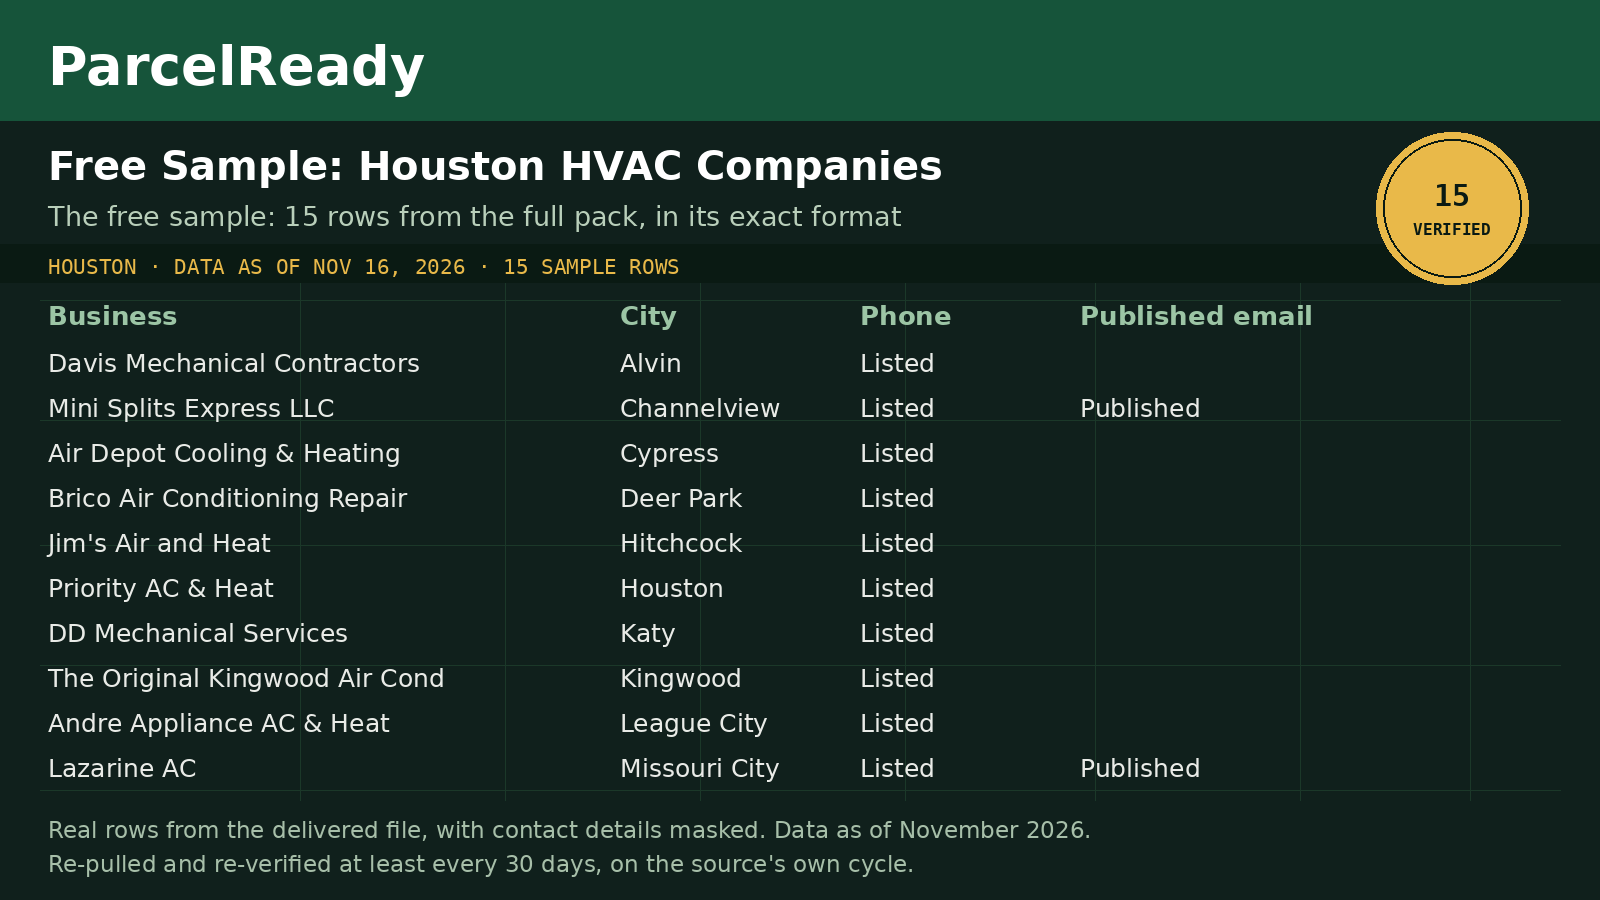
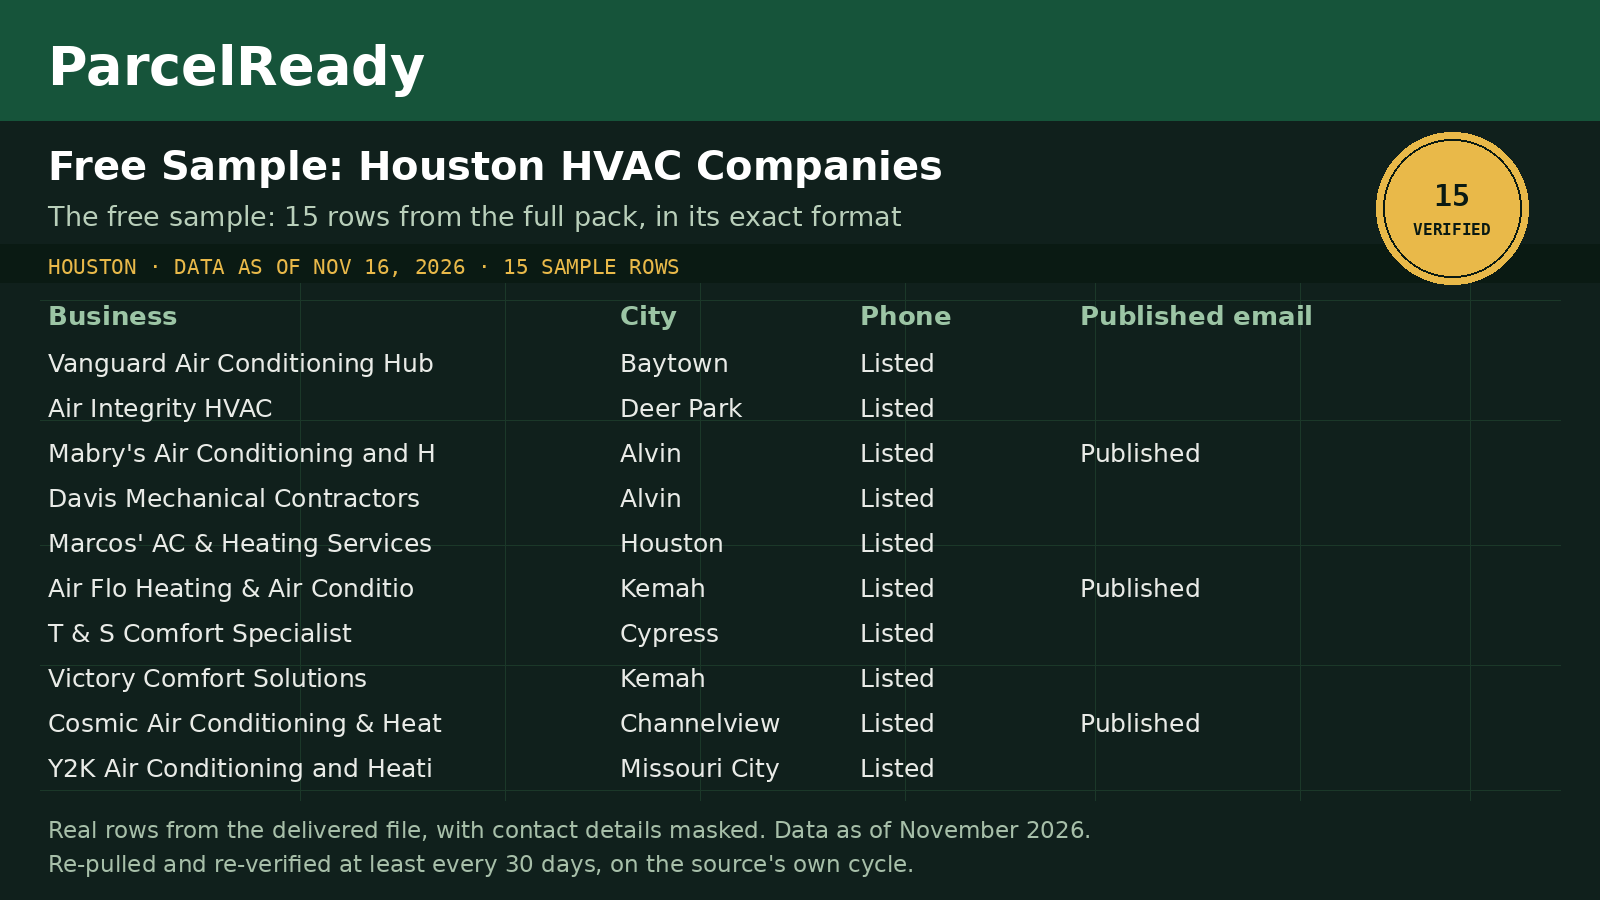
A2 trade preview fix: representative stratified draw (email, rating, website) replaces the systematic draw for trade packs in both the preview and the delivered sample; Label plates carry true coverage computed from the delivered files; preview copy states the representative draw

diff --git a/packs/houston-hvac.html b/packs/houston-hvac.html
@@ -50,7 +50,7 @@
       
       <div class="mini-preview">
         <p class="mini-head"><span>Live preview · first 5 rows</span><span>15 preview rows in all</span></p>
-        <table><thead><tr><th>Business name</th><th>City</th><th>Phone</th><th>Published email</th></tr></thead><tbody><tr><td>Davis Mechanical Contractors</td><td>Alvin</td><td>Listed</td><td></td></tr><tr><td>Mini Splits Express LLC</td><td>Channelview</td><td>Listed</td><td>Published</td></tr><tr><td>Air Depot Cooling &amp; Heating</td><td>Cypress</td><td>Listed</td><td></td></tr><tr><td>Brico Air Conditioning Repair Services</td><td>Deer Park</td><td>Listed</td><td></td></tr><tr><td>Jim&#x27;s Air and Heat</td><td>Hitchcock</td><td>Listed</td><td></td></tr></tbody></table>
+        <table><thead><tr><th>Business name</th><th>City</th><th>Phone</th><th>Published email</th></tr></thead><tbody><tr><td>Vanguard Air Conditioning Hub</td><td>Baytown</td><td>Listed</td><td></td></tr><tr><td>Air Integrity HVAC</td><td>Deer Park</td><td>Listed</td><td></td></tr><tr><td>Mabry&#x27;s Air Conditioning and Heating</td><td>Alvin</td><td>Listed</td><td>Published</td></tr><tr><td>Davis Mechanical Contractors</td><td>Alvin</td><td>Listed</td><td></td></tr><tr><td>Marcos&#x27; AC &amp; Heating Services</td><td>Houston</td><td>Listed</td><td></td></tr></tbody></table>
         <p class="mini-foot">Real rows from this pack, contact details masked on screen. <a href="#sample">See the full preview below</a>; the delivered sample carries every field.</p>
       </div>
     </div>
@@ -60,7 +60,7 @@
 
 <section class="label-band"><div class="wrap">
   <div class="label-plate">
-    <div class="label-fields"><div class="label-field"><span class="label-k">Pack</span><span class="label-v">Houston HVAC Companies</span></div><div class="label-field"><span class="label-k">Source</span><span class="label-v">Each business&#x27;s own website and listings, checked by hand</span></div><div class="label-field"><span class="label-k">Pull date</span><span class="label-v">November 16, 2026</span></div><div class="label-field"><span class="label-k">Rows</span><span class="label-v">137 verified companies</span></div><div class="label-field"><span class="label-k">Refresh</span><span class="label-v">Fully re-verified monthly</span></div><div class="label-field"><span class="label-k">Price</span><span class="label-v">$79 one time</span></div><div class="label-field"><span class="label-k">Cleared for</span><span class="label-v">Contact details as published by each business.</span></div></div>
+    <div class="label-fields"><div class="label-field"><span class="label-k">Pack</span><span class="label-v">Houston HVAC Companies</span></div><div class="label-field"><span class="label-k">Source</span><span class="label-v">Each business&#x27;s own website and listings, checked by hand</span></div><div class="label-field"><span class="label-k">Pull date</span><span class="label-v">November 16, 2026</span></div><div class="label-field"><span class="label-k">Rows</span><span class="label-v">137 verified companies</span></div><div class="label-field"><span class="label-k">Coverage</span><span class="label-v">Phone on 100% · Published email on 31% · Website on 98%</span></div><div class="label-field"><span class="label-k">Refresh</span><span class="label-v">Fully re-verified monthly</span></div><div class="label-field"><span class="label-k">Price</span><span class="label-v">$79 one time</span></div><div class="label-field"><span class="label-k">Cleared for</span><span class="label-v">Contact details as published by each business.</span></div></div>
     <div class="label-seal"><span class="seal-count">137</span><span class="seal-word">Verified</span></div>
     <p class="label-promise">The <a href="../terms.html#label-promise">label promise</a>: if this pack does not match what this page promises, tell us within 30 days and we will fix it or refund the pack.</p>
   </div>
@@ -119,7 +119,7 @@
       <div class="wrap">
         <p class="kicker">Free sample, viewable right here</p>
         <h2>Inspect the data before you spend a dollar</h2>
-        <p class="explorer-sub">What you see here is the proof surface: real rows drawn evenly from the full file, real counts, and the same fields the pack carries, with contact details masked on screen. The free sample file itself, 10 percent of the full file (15 rows at minimum, 50 at most, the same rule on every pack in the catalog), carries every field exactly as it ships, and it is delivered by email below. Inspect the structure and the counts here; the usable file comes by email.</p>
+        <p class="explorer-sub">What you see here is the proof surface: real rows drawn to represent the full file, so the coverage you see matches the coverage the file carries (the true rates are printed on the label), real counts, and the same fields the pack carries, with contact details masked on screen. The free sample file itself, 10 percent of the full file (15 rows at minimum, 50 at most, the same rule on every pack in the catalog), carries every field exactly as it ships, and it is delivered by email below. Inspect the structure and the counts here; the usable file comes by email.</p>
         <div class="explorer-frame">
           <p class="explorer-frame-head"><span>LIVE PREVIEW · HOUSTON HVAC COMPANIES</span><span>PULLED NOVEMBER 16, 2026 · CONTACT DETAILS MASKED</span></p>
           <div class="explorer" data-explorer="../assets/data/houston-hvac-sample.json"></div>

diff --git a/packs/austin-sa-roofing.html b/packs/austin-sa-roofing.html
@@ -50,7 +50,7 @@
       
       <div class="mini-preview">
         <p class="mini-head"><span>Live preview · first 5 rows</span><span>15 preview rows in all</span></p>
-        <table><thead><tr><th>Business name</th><th>City</th><th>Phone</th><th>Published email</th></tr></thead><tbody><tr><td>Ace Roofing Company</td><td>Austin</td><td>Listed</td><td>Published</td></tr><tr><td>Tex Roof - Austin Roofing &amp; Construction</td><td>Austin</td><td>Listed</td><td>Published</td></tr><tr><td>KangaRoof</td><td>Round Rock</td><td>Listed</td><td>Published</td></tr><tr><td>Ark Roofer</td><td>Georgetown</td><td>Listed</td><td></td></tr><tr><td>Malachi Roofing</td><td>Cedar Park</td><td>Listed</td><td>Published</td></tr></tbody></table>
+        <table><thead><tr><th>Business name</th><th>City</th><th>Phone</th><th>Published email</th></tr></thead><tbody><tr><td>Texas Choice Roofing</td><td>Austin</td><td>Listed</td><td></td></tr><tr><td>Altitude Roofing</td><td>Austin</td><td>Listed</td><td>Published</td></tr><tr><td>SkyDeck Roofing and Construction</td><td>Austin</td><td>Listed</td><td></td></tr><tr><td>Ace Roofing Company</td><td>Austin</td><td>Listed</td><td>Published</td></tr><tr><td>RoofsOnly.com</td><td>Austin</td><td>Listed</td><td></td></tr></tbody></table>
         <p class="mini-foot">Real rows from this pack, contact details masked on screen. <a href="#sample">See the full preview below</a>; the delivered sample carries every field.</p>
       </div>
     </div>
@@ -60,7 +60,7 @@
 
 <section class="label-band"><div class="wrap">
   <div class="label-plate">
-    <div class="label-fields"><div class="label-field"><span class="label-k">Pack</span><span class="label-v">Austin to San Antonio Roofing Companies</span></div><div class="label-field"><span class="label-k">Source</span><span class="label-v">Each business&#x27;s own website and listings, checked by hand</span></div><div class="label-field"><span class="label-k">Pull date</span><span class="label-v">November 16, 2026</span></div><div class="label-field"><span class="label-k">Rows</span><span class="label-v">130 verified companies</span></div><div class="label-field"><span class="label-k">Refresh</span><span class="label-v">Fully re-verified monthly</span></div><div class="label-field"><span class="label-k">Price</span><span class="label-v">$79 one time</span></div><div class="label-field"><span class="label-k">Cleared for</span><span class="label-v">Contact details as published by each business.</span></div></div>
+    <div class="label-fields"><div class="label-field"><span class="label-k">Pack</span><span class="label-v">Austin to San Antonio Roofing Companies</span></div><div class="label-field"><span class="label-k">Source</span><span class="label-v">Each business&#x27;s own website and listings, checked by hand</span></div><div class="label-field"><span class="label-k">Pull date</span><span class="label-v">November 16, 2026</span></div><div class="label-field"><span class="label-k">Rows</span><span class="label-v">130 verified companies</span></div><div class="label-field"><span class="label-k">Coverage</span><span class="label-v">Phone on 100% · Published email on 52% · Website on 100%</span></div><div class="label-field"><span class="label-k">Refresh</span><span class="label-v">Fully re-verified monthly</span></div><div class="label-field"><span class="label-k">Price</span><span class="label-v">$79 one time</span></div><div class="label-field"><span class="label-k">Cleared for</span><span class="label-v">Contact details as published by each business.</span></div></div>
     <div class="label-seal"><span class="seal-count">130</span><span class="seal-word">Verified</span></div>
     <p class="label-promise">The <a href="../terms.html#label-promise">label promise</a>: if this pack does not match what this page promises, tell us within 30 days and we will fix it or refund the pack.</p>
   </div>
@@ -119,7 +119,7 @@
       <div class="wrap">
         <p class="kicker">Free sample, viewable right here</p>
         <h2>Inspect the data before you spend a dollar</h2>
-        <p class="explorer-sub">What you see here is the proof surface: real rows drawn evenly from the full file, real counts, and the same fields the pack carries, with contact details masked on screen. The free sample file itself, 10 percent of the full file (15 rows at minimum, 50 at most, the same rule on every pack in the catalog), carries every field exactly as it ships, and it is delivered by email below. Inspect the structure and the counts here; the usable file comes by email.</p>
+        <p class="explorer-sub">What you see here is the proof surface: real rows drawn to represent the full file, so the coverage you see matches the coverage the file carries (the true rates are printed on the label), real counts, and the same fields the pack carries, with contact details masked on screen. The free sample file itself, 10 percent of the full file (15 rows at minimum, 50 at most, the same rule on every pack in the catalog), carries every field exactly as it ships, and it is delivered by email below. Inspect the structure and the counts here; the usable file comes by email.</p>
         <div class="explorer-frame">
           <p class="explorer-frame-head"><span>LIVE PREVIEW · AUSTIN TO SAN ANTONIO ROOFING COMPANIES</span><span>PULLED NOVEMBER 16, 2026 · CONTACT DETAILS MASKED</span></p>
           <div class="explorer" data-explorer="../assets/data/austin-sa-roofing-sample.json"></div>

diff --git a/packs/houston-plumbing.html b/packs/houston-plumbing.html
@@ -50,7 +50,7 @@
       
       <div class="mini-preview">
         <p class="mini-head"><span>Live preview · first 5 rows</span><span>15 preview rows in all</span></p>
-        <table><thead><tr><th>Business name</th><th>City</th><th>Phone</th><th>Published email</th></tr></thead><tbody><tr><td>Jerry Collier Plumbing</td><td>Alvin</td><td>Listed</td><td></td></tr><tr><td>Reisch Plumbing</td><td>Conroe</td><td>Listed</td><td>Published</td></tr><tr><td>Aberle Plumbing</td><td>Houston</td><td>Listed</td><td></td></tr><tr><td>Repipe Solutions Inc</td><td>Houston</td><td>Listed</td><td>Published</td></tr><tr><td>Gal Plumbing Industries LLC</td><td>Katy</td><td>Listed</td><td>Published</td></tr></tbody></table>
+        <table><thead><tr><th>Business name</th><th>City</th><th>Phone</th><th>Published email</th></tr></thead><tbody><tr><td>Jerry Collier Plumbing</td><td>Alvin</td><td>Listed</td><td></td></tr><tr><td>Blackmon Plumbing</td><td>Baytown</td><td>Listed</td><td></td></tr><tr><td>Choice Plumbers, LLC</td><td>Baytown</td><td>Listed</td><td>Published</td></tr><tr><td>JR Plumbing</td><td>Richmond</td><td>Listed</td><td></td></tr><tr><td>Village Plumbing, Air &amp; Electric</td><td>Houston</td><td>Listed</td><td></td></tr></tbody></table>
         <p class="mini-foot">Real rows from this pack, contact details masked on screen. <a href="#sample">See the full preview below</a>; the delivered sample carries every field.</p>
       </div>
     </div>
@@ -60,7 +60,7 @@
 
 <section class="label-band"><div class="wrap">
   <div class="label-plate">
-    <div class="label-fields"><div class="label-field"><span class="label-k">Pack</span><span class="label-v">Houston Plumbing Companies</span></div><div class="label-field"><span class="label-k">Source</span><span class="label-v">Each business&#x27;s own website and listings, checked by hand</span></div><div class="label-field"><span class="label-k">Pull date</span><span class="label-v">November 22, 2026</span></div><div class="label-field"><span class="label-k">Rows</span><span class="label-v">135 verified companies</span></div><div class="label-field"><span class="label-k">Refresh</span><span class="label-v">Fully re-verified monthly</span></div><div class="label-field"><span class="label-k">Price</span><span class="label-v">$79 one time</span></div><div class="label-field"><span class="label-k">Cleared for</span><span class="label-v">Contact details as published by each business.</span></div></div>
+    <div class="label-fields"><div class="label-field"><span class="label-k">Pack</span><span class="label-v">Houston Plumbing Companies</span></div><div class="label-field"><span class="label-k">Source</span><span class="label-v">Each business&#x27;s own website and listings, checked by hand</span></div><div class="label-field"><span class="label-k">Pull date</span><span class="label-v">November 22, 2026</span></div><div class="label-field"><span class="label-k">Rows</span><span class="label-v">135 verified companies</span></div><div class="label-field"><span class="label-k">Coverage</span><span class="label-v">Phone on 100% · Published email on 31% · Website on 100%</span></div><div class="label-field"><span class="label-k">Refresh</span><span class="label-v">Fully re-verified monthly</span></div><div class="label-field"><span class="label-k">Price</span><span class="label-v">$79 one time</span></div><div class="label-field"><span class="label-k">Cleared for</span><span class="label-v">Contact details as published by each business.</span></div></div>
     <div class="label-seal"><span class="seal-count">135</span><span class="seal-word">Verified</span></div>
     <p class="label-promise">The <a href="../terms.html#label-promise">label promise</a>: if this pack does not match what this page promises, tell us within 30 days and we will fix it or refund the pack.</p>
   </div>
@@ -119,7 +119,7 @@
       <div class="wrap">
         <p class="kicker">Free sample, viewable right here</p>
         <h2>Inspect the data before you spend a dollar</h2>
-        <p class="explorer-sub">What you see here is the proof surface: real rows drawn evenly from the full file, real counts, and the same fields the pack carries, with contact details masked on screen. The free sample file itself, 10 percent of the full file (15 rows at minimum, 50 at most, the same rule on every pack in the catalog), carries every field exactly as it ships, and it is delivered by email below. Inspect the structure and the counts here; the usable file comes by email.</p>
+        <p class="explorer-sub">What you see here is the proof surface: real rows drawn to represent the full file, so the coverage you see matches the coverage the file carries (the true rates are printed on the label), real counts, and the same fields the pack carries, with contact details masked on screen. The free sample file itself, 10 percent of the full file (15 rows at minimum, 50 at most, the same rule on every pack in the catalog), carries every field exactly as it ships, and it is delivered by email below. Inspect the structure and the counts here; the usable file comes by email.</p>
         <div class="explorer-frame">
           <p class="explorer-frame-head"><span>LIVE PREVIEW · HOUSTON PLUMBING COMPANIES</span><span>PULLED NOVEMBER 22, 2026 · CONTACT DETAILS MASKED</span></p>
           <div class="explorer" data-explorer="../assets/data/houston-plumbing-sample.json"></div>

diff --git a/build.py b/build.py
@@ -165,10 +165,66 @@ def full_file_path(p):
     return os.path.join(DP, first)
 
 
+def _spread(rs, n):
+    if n <= 0 or not rs:
+        return []
+    step = max(1, len(rs) // n)
+    return rs[::step][:n]
+
+
+def _interleave(a, b):
+    out, ia, ib = [], 0, 0
+    total = len(a) + len(b)
+    for i in range(total):
+        if ia < len(a) and (i + 1) * len(a) // total > i * len(a) // total:
+            out.append(a[ia]); ia += 1
+        elif ib < len(b):
+            out.append(b[ib]); ib += 1
+        elif ia < len(a):
+            out.append(a[ia]); ia += 1
+    return out
+
+
+def _stratified_pick(rows, n, fields):
+    """Pick n rows from rows so the share carrying fields[0] matches
+    the share in rows as closely as n allows, spread evenly within
+    each stratum and interleaved. Each stratum's pick recurses on
+    the remaining fields, so correlated fields track too: in the
+    trade files a single-field draw on email dragged rating over 20
+    points high, and a two-field draw caught two of the file's only
+    three website-less rows."""
+    if n <= 0 or not rows:
+        return []
+    if not fields:
+        return _spread(rows, n)
+    field = fields[0]
+    have = [r for r in rows if (r.get(field) or "").strip()]
+    have_not = [r for r in rows if not (r.get(field) or "").strip()]
+    k = round(len(have) / len(rows) * n)
+    k = max(0, min(n, k, len(have)))
+    rest = n - k
+    if rest > len(have_not):
+        k += rest - len(have_not)
+        rest = len(have_not)
+    a = _stratified_pick(have, k, fields[1:])
+    b = _stratified_pick(have_not, rest, fields[1:])
+    return _interleave(a, b)
+
+
+def representative_draw(rows, target):
+    """A2 (HQ ruling, Nov 24, 2026, on Relay's fill-rate facts): a
+    trade sample whose lead-field fill rates match the full file's
+    true rates as closely as the sample size allows. Deterministic,
+    so builds are reproducible and Relay's representativeness check
+    can re-derive the same draw."""
+    return _stratified_pick(rows, target, ["Published email", "Rating", "Website"])
+
+
 def write_sample_json():
     """The free sample is a fixed percentage of the full file (Matt's ruling,
-    Nov 22, 2026), drawn systematically (every Nth row) from the full file.
-    Emits the explorer JSON (first 500 sample rows) and the delivery CSV
+    Nov 22, 2026). County samples draw systematically (every Nth row);
+    trade samples draw representatively under A2 (see above). Emits
+    the explorer JSON (first 500 sample rows) and the delivery CSV
     (the full sample) staged for R2 under delivery/samples/."""
     pct = CATALOG.get("sample_percent", 10)
     step = max(1, round(100 / pct))
@@ -184,8 +240,17 @@ def write_sample_json():
             headers = reader.fieldnames
             all_rows = list(reader)
         target = max(15, min(50, round(len(all_rows) * pct / 100)))
-        dstep = max(1, len(all_rows) // target)
-        delivered = all_rows[::dstep][:target]
+        if p["family"] == "trade":
+            delivered = representative_draw(all_rows, target)
+            def _rate(rs, f):
+                return 100.0 * sum(1 for r in rs if (r.get(f) or "").strip()) / len(rs) if rs else 0.0
+            print(f"A2 DRAW {p['id']}: email file {_rate(all_rows, 'Published email'):.1f}% "
+                  f"sample {_rate(delivered, 'Published email'):.1f}% | "
+                  f"rating file {_rate(all_rows, 'Rating'):.1f}% sample {_rate(delivered, 'Rating'):.1f}% | "
+                  f"website file {_rate(all_rows, 'Website'):.1f}% sample {_rate(delivered, 'Website'):.1f}%")
+        else:
+            dstep = max(1, len(all_rows) // target)
+            delivered = all_rows[::dstep][:target]
         kind = "trade" if p["family"] == "trade" else "county"
         cols = [c for c in TRADE_COLS if c in headers] if kind == "trade" else headers
         if len(cols) < 4:
@@ -298,6 +363,27 @@ def label_source(p):
     return "Each business's own website and listings, checked by hand"
 
 
+_COVERAGE = {}
+
+
+def trade_coverage(p):
+    """(phone, published email, website) fill rates in whole percent,
+    computed from the pack's delivered full file. Cached per build."""
+    if p["id"] in _COVERAGE:
+        return _COVERAGE[p["id"]]
+    rates = None
+    path = full_file_path(p)
+    if path and os.path.exists(path):
+        with open(path, newline="", encoding="utf-8-sig") as f:
+            rows = list(csv.DictReader(f))
+        if rows:
+            def rate(field):
+                return round(100 * sum(1 for r in rows if (r.get(field) or "").strip()) / len(rows))
+            rates = (rate("Phone"), rate("Published email"), rate("Website"))
+    _COVERAGE[p["id"]] = rates
+    return rates
+
+
 def label_plate(p):
     """Beauty spec B2: the Label, a designed specimen tag that
     replaces the loose stat strip as the pack page's anchor."""
@@ -307,6 +393,14 @@ def label_plate(p):
         ("Pull date", fmt_date(p["data_as_of"])),
         ("Rows", p["rows_label"]),
     ]
+    if p["family"] == "trade":
+        # A2 (HQ ruling, Nov 24, 2026): the Label carries the pack's
+        # true lead-field coverage, computed from the delivered file
+        # at build time so the printed rates can never drift.
+        cov = trade_coverage(p)
+        if cov:
+            fields.append(("Coverage",
+                           f"Phone on {cov[0]}% · Published email on {cov[1]}% · Website on {cov[2]}%"))
     for s in p["stats"]:
         if "match" in s["k"].lower():
             fields.append(("Match rate", s["v"]))
@@ -419,7 +513,7 @@ def sample_section(p):
       <div class="wrap">
         <p class="kicker">Free sample, viewable right here</p>
         <h2>Inspect the data before you spend a dollar</h2>
-        <p class="explorer-sub">What you see here is the proof surface: real rows drawn evenly from the full file, real counts, and the same fields the pack carries, with contact details masked on screen. The free sample file itself, {CATALOG.get("sample_percent", 10)} percent of the full file (15 rows at minimum, 50 at most, the same rule on every pack in the catalog), carries every field exactly as it ships, and it is delivered by email below. Inspect the structure and the counts here; the usable file comes by email.</p>
+        <p class="explorer-sub">What you see here is the proof surface: real rows {"drawn to represent the full file, so the coverage you see matches the coverage the file carries (the true rates are printed on the label)" if kind == "trade" else "drawn evenly from the full file"}, real counts, and the same fields the pack carries, with contact details masked on screen. The free sample file itself, {CATALOG.get("sample_percent", 10)} percent of the full file (15 rows at minimum, 50 at most, the same rule on every pack in the catalog), carries every field exactly as it ships, and it is delivered by email below. Inspect the structure and the counts here; the usable file comes by email.</p>
         <div class="explorer-frame">
           <p class="explorer-frame-head"><span>LIVE PREVIEW · {esc(p['title'].upper())}</span><span>PULLED {esc(fmt_date(p['data_as_of']).upper())}{' · CONTACT DETAILS MASKED' if kind == 'trade' else ''}</span></p>
           <div class="explorer" data-explorer="../assets/data/{p['id']}-sample.json"></div>
